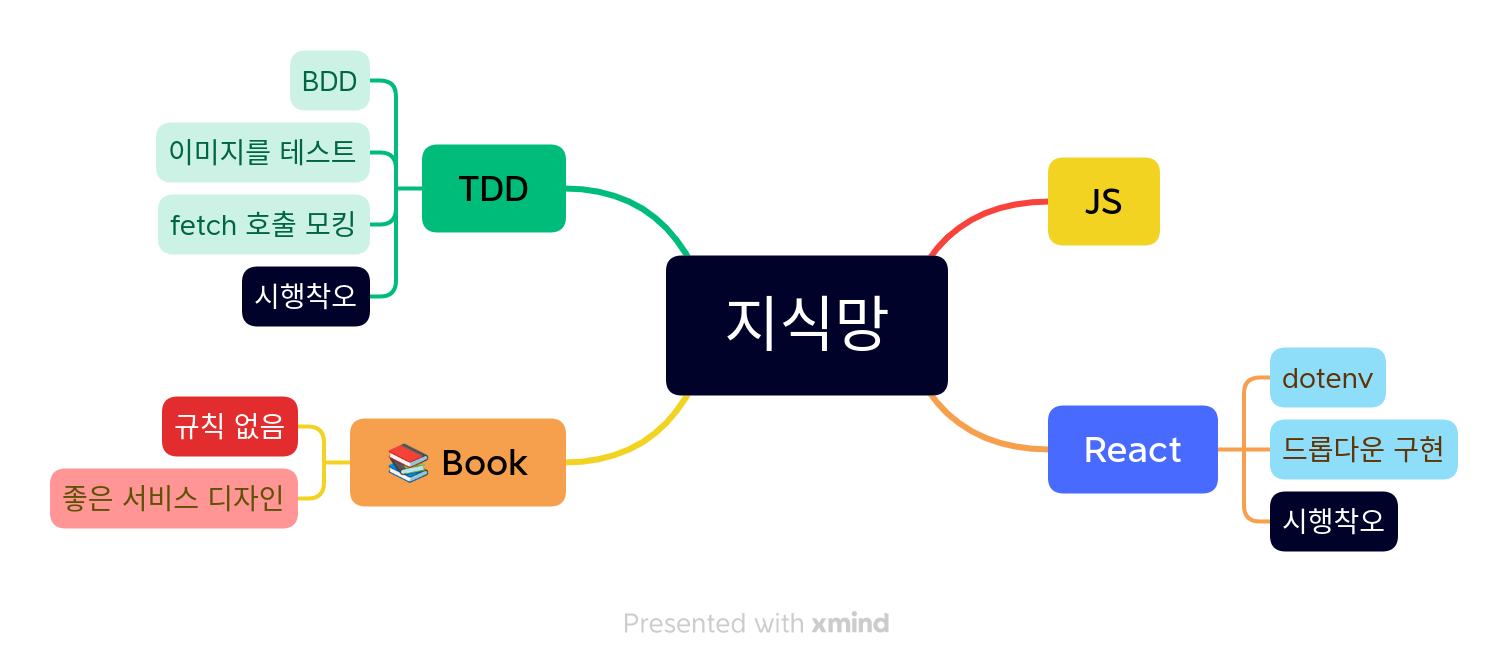
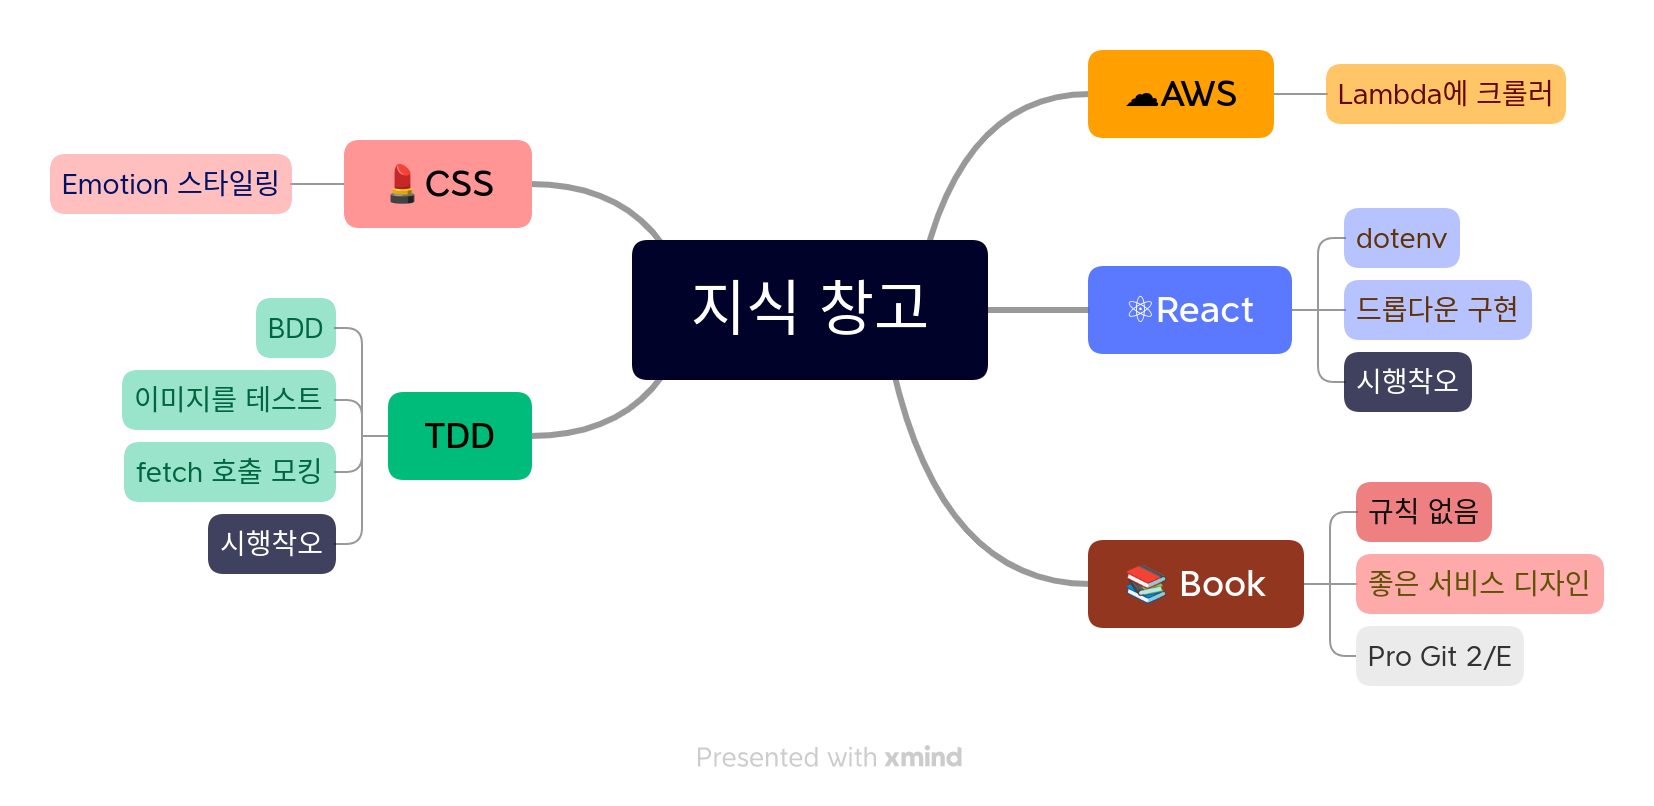
Update layout related content

diff --git a/public/img/README.md b/public/img/README.md
@@ -1,0 +1,15 @@
+## 잊지 않기 위한 안내글
+
+### Book cover
+모든 book cover 이미지는 **알라딘**에서 받아옵니다.  
+(추후 크롤러로 자동화할 예정)
+
+받아오면 이미지 사이즈가 좀 큰데  
+`$ convert -resize 50% big-book.jpg small-book.jpg`  
+커맨드로 리사이즈해서 저장합니다.
+
+### Layout
+블로그 글의 구성을 요약하는 layout 이미지는 `Xmind`로 그리고 있습니다.  
+layout 디렉토리에 관련 파일도 함께 버전 관리합니다.
+
+이외에 다이어그램이나 시퀀스 등은 [eraser](https://www.tryeraser.com/)를 이용합니다.
